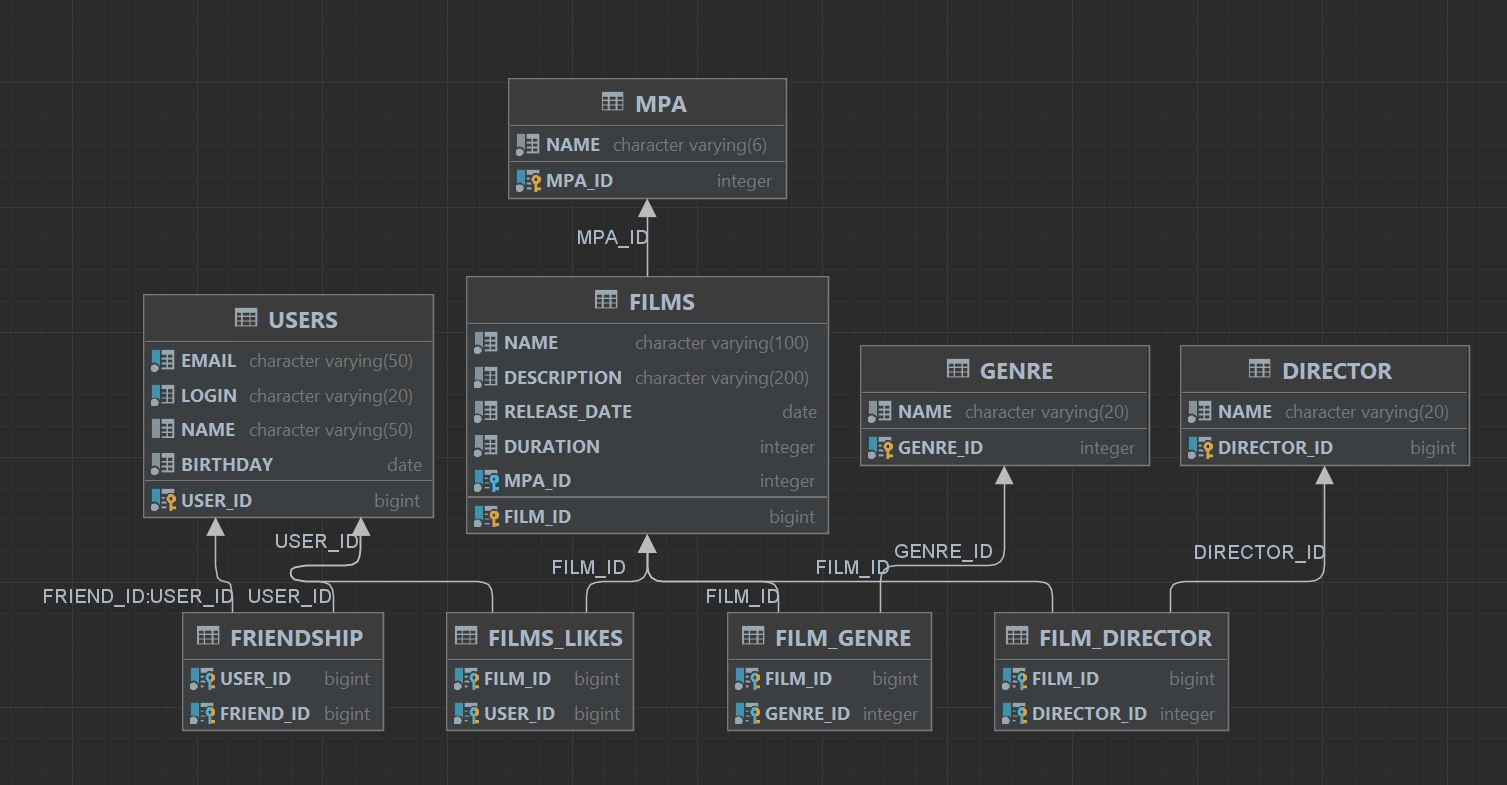
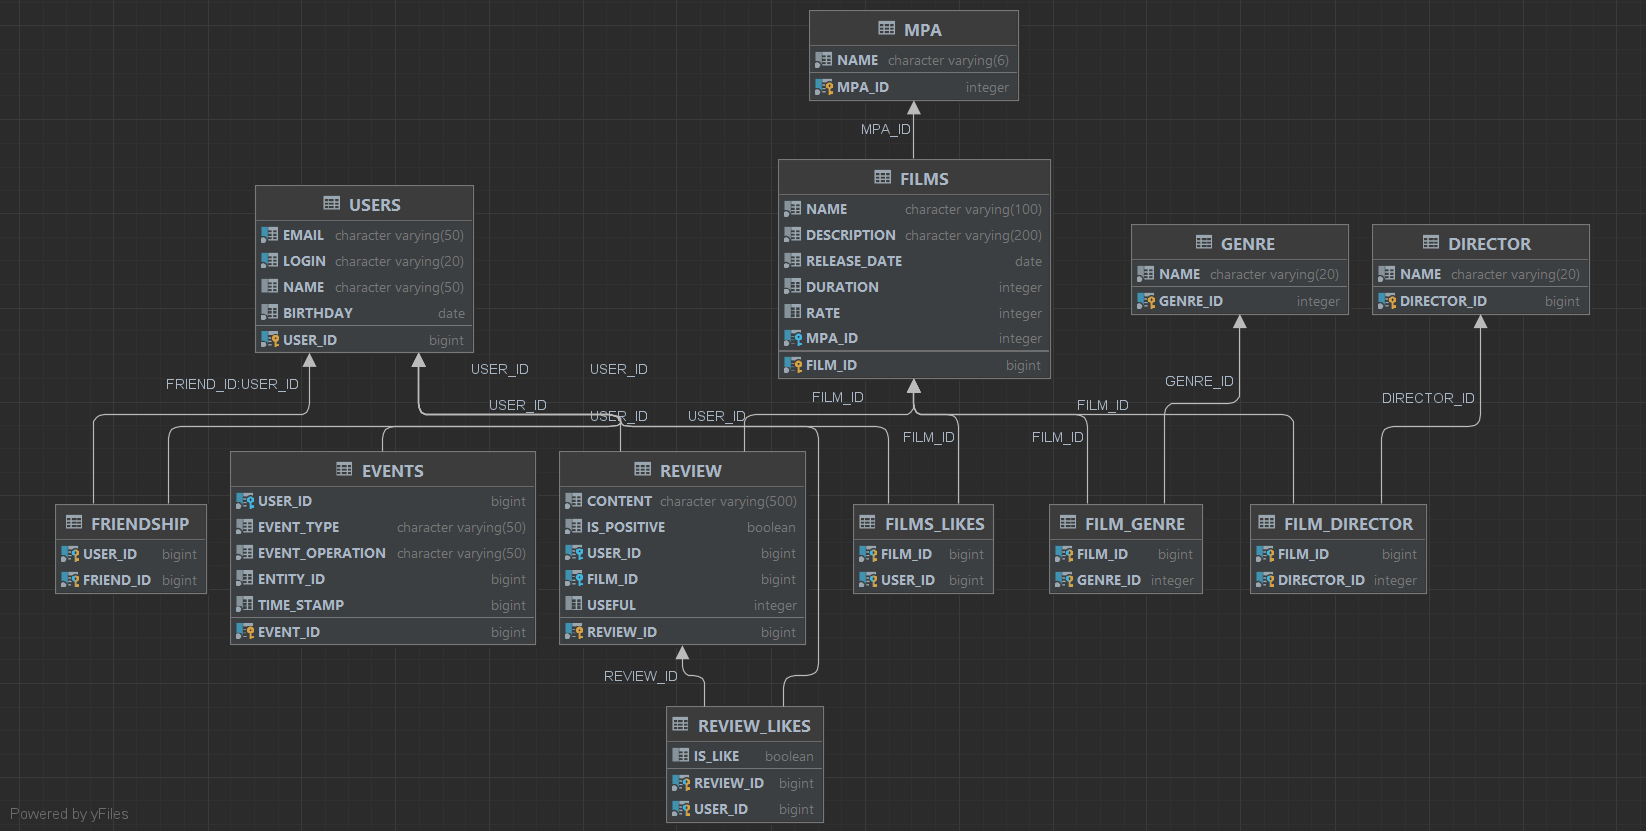
update: обновить описание проекта в ReadMe

diff --git a/README.md b/README.md
@@ -1,2 +1,38 @@
-# java-filmorate
-Template repository for Filmorate project.
+# Filmorate
+
+Repository for Filmorate - project with Spring Boot and Maven
+
+------
+#### Project is a storage for films with opportunity for users to make likes, friends, reviews and etc.
+
+#### Приложение умеет:
+
+1. Full Rest API для работы с пользователями, фильмами, жанрами и директорами фильмов.
+2. Хранение данных в базе данных H2.
+3. Входные данные проходят валидацию.
+4. Реализовано логирование на Slf4j.
+5. Основные свойства фильма: название, описание, дата релиза, продолжительность.
+6. Дополнительные характеристики фильма: рейтинг на основе кол-ва лайков от пользователей, возрастные рекомендации для просмотра, жанр фильма.
+7. У фильмов реализовано свойство - режиссёр фильма с функциональностью: 
+     - вывод всех фильмов режиссёра, отсортированных по количеству лайков.
+     - вывод всех фильмов режиссёра, отсортированных по годам.
+8. Основные свойства пользователя: e-mail, логин, имя, день рождения.
+9. Дополнительные связи пользователя: друзья, отзывы и лайки фильмам.
+10. В приложении есть возможность делать отзывы на фильмы. Добавленные отзывы имеют рейтинг и несколько дополнительных характеристик.
+11. В приложении есть возможность просмотра последних событий на платформе — добавления в друзья, удаления из друзей, лайки и отзывы, которые оставили друзья пользователя.
+12. В приложении есть возможность вывода общих с другом фильмов с сортировкой по их популярности. 
+13. В приложении есть возможность выводить топ-N фильмов по количеству лайков с фильтрацией по жанру или году.
+14. Реализована простая рекомендательная система для фильмов на базе интересов и лайков друзей.
+
+Приложение написано на Java. Пример кода:
+
+```java
+public class Practicum {
+    public static void main(String[] args) {
+    }
+}
+```
+
+------
+ER-диаграмма:
+![ER-диаграмма](ER-diagram.png)
